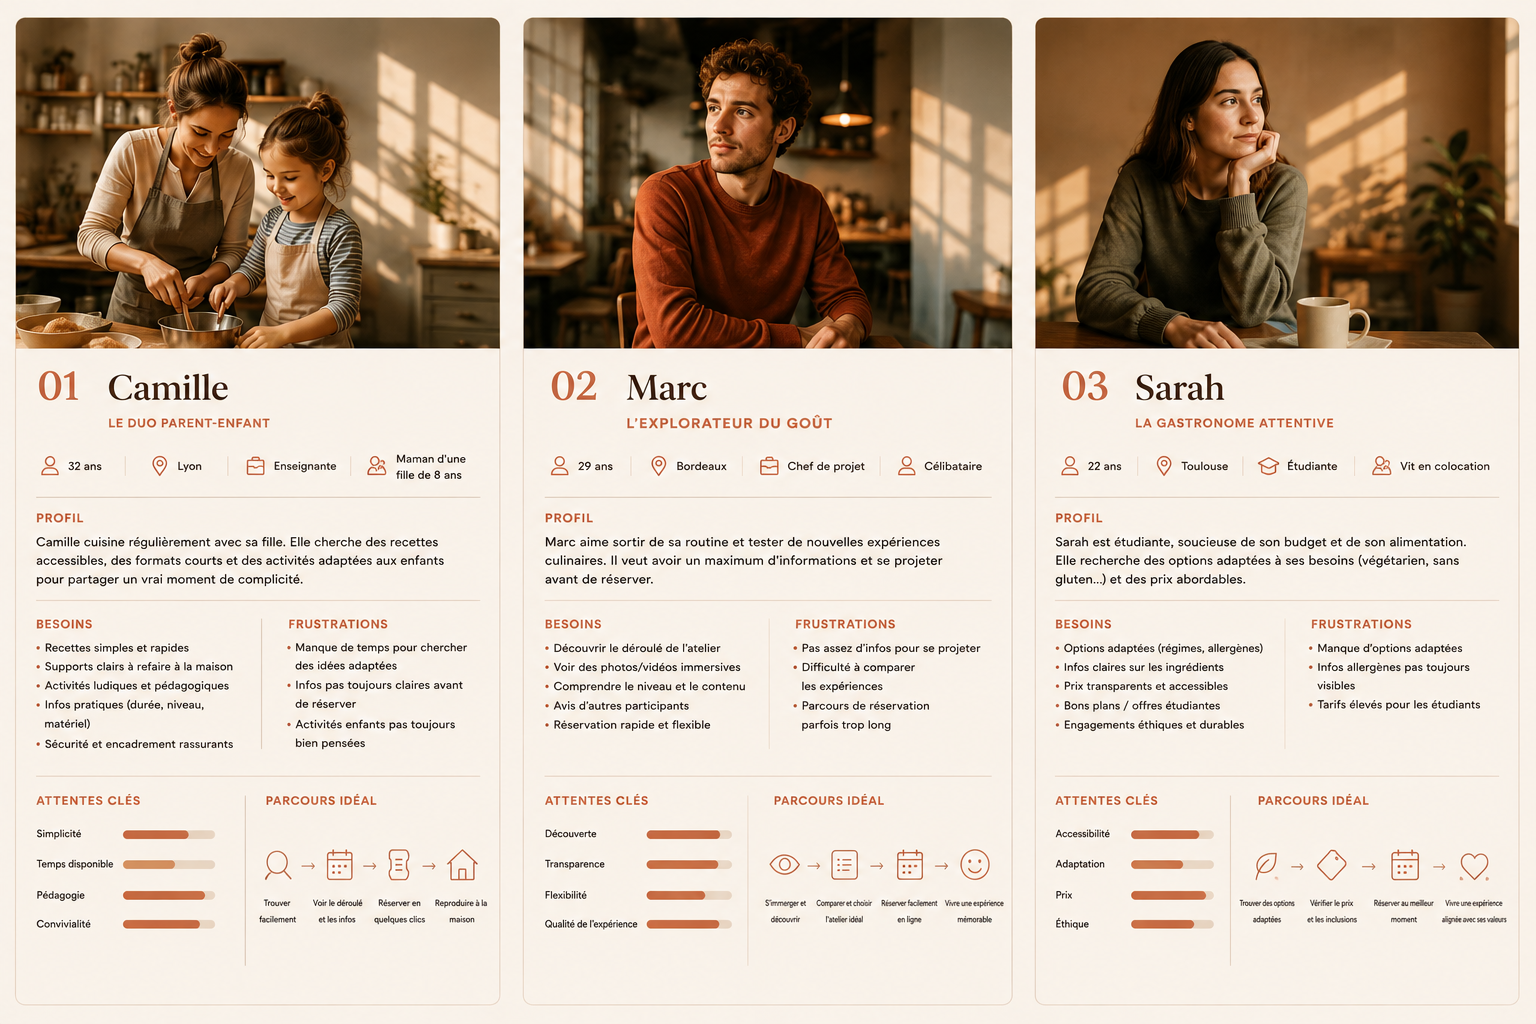
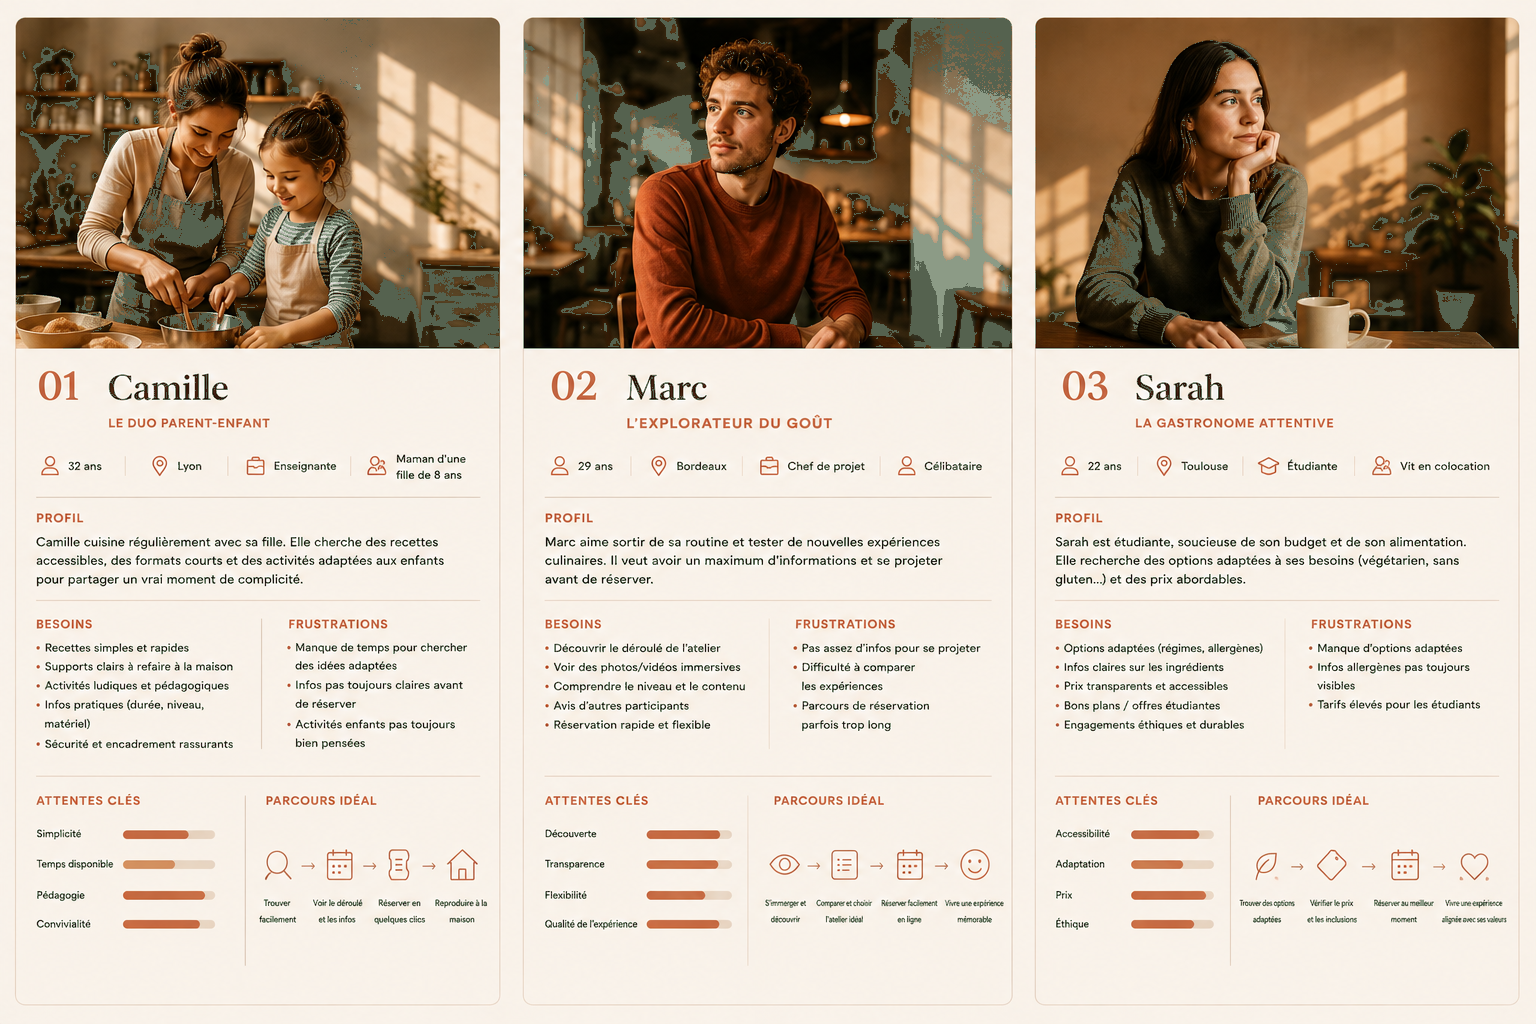
style(personas): introduction discrete du vert sauge (#C7D1BF / #AEBBA6 / #55624F) sur les jauges, indicateurs de niveau et pictos secondaires

diff --git a/styles.css b/styles.css
@@ -2175,7 +2175,7 @@ strong, b {
   margin-top: 18px !important;
   border-radius: 16px !important;
   overflow: hidden !important;
-  border: 1px solid #D4CCC9 !important;
+  border: 1px solid #AEBBA6 !important;
   position: relative !important;
   cursor: zoom-in !important;
   background: #F7F3EE !important;
@@ -2187,7 +2187,7 @@ strong, b {
 
 .lbc-v2-personas-wrapper:hover {
   transform: translateY(-2px) !important;
-  border-color: rgba(199, 109, 75, 0.4) !important;
+  border-color: #C76D4B !important;
   box-shadow: 0 12px 30px rgba(62, 57, 52, 0.09) !important;
 }
 

diff --git a/index.html b/index.html
@@ -11,7 +11,7 @@
   <link rel="preconnect" href="https://fonts.gstatic.com" crossorigin>
   <link href="https://fonts.googleapis.com/css2?family=Montserrat:ital,wght@0,300;0,400;0,500;0,600;1,400&family=Playfair+Display:ital,wght@0,400;0,500;0,600;1,400&display=swap" rel="stylesheet">
   
-  <link rel="stylesheet" href="styles.css?v=20260829_restore_original_personas">
+  <link rel="stylesheet" href="styles.css?v=20260829_personas_sauge_gauges_discrete">
 
   <script>
     function openLightbox(imgSrc, captionText) {
